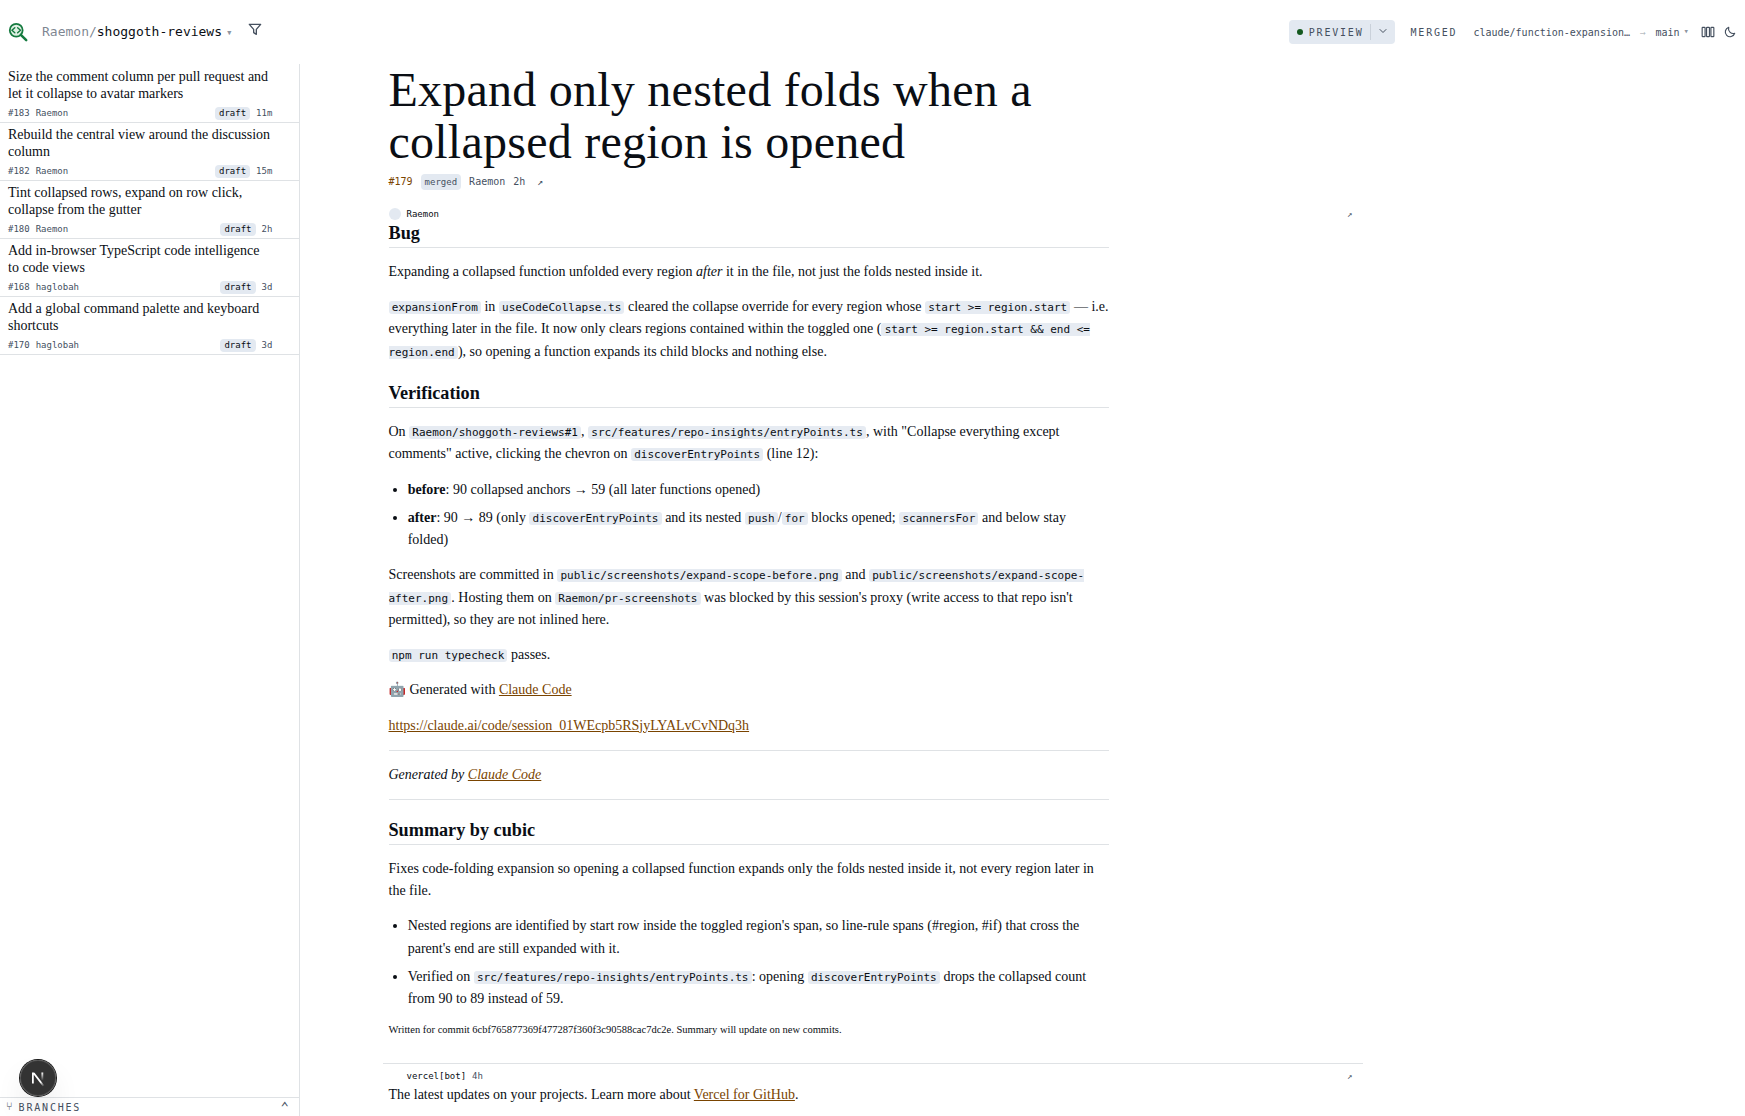
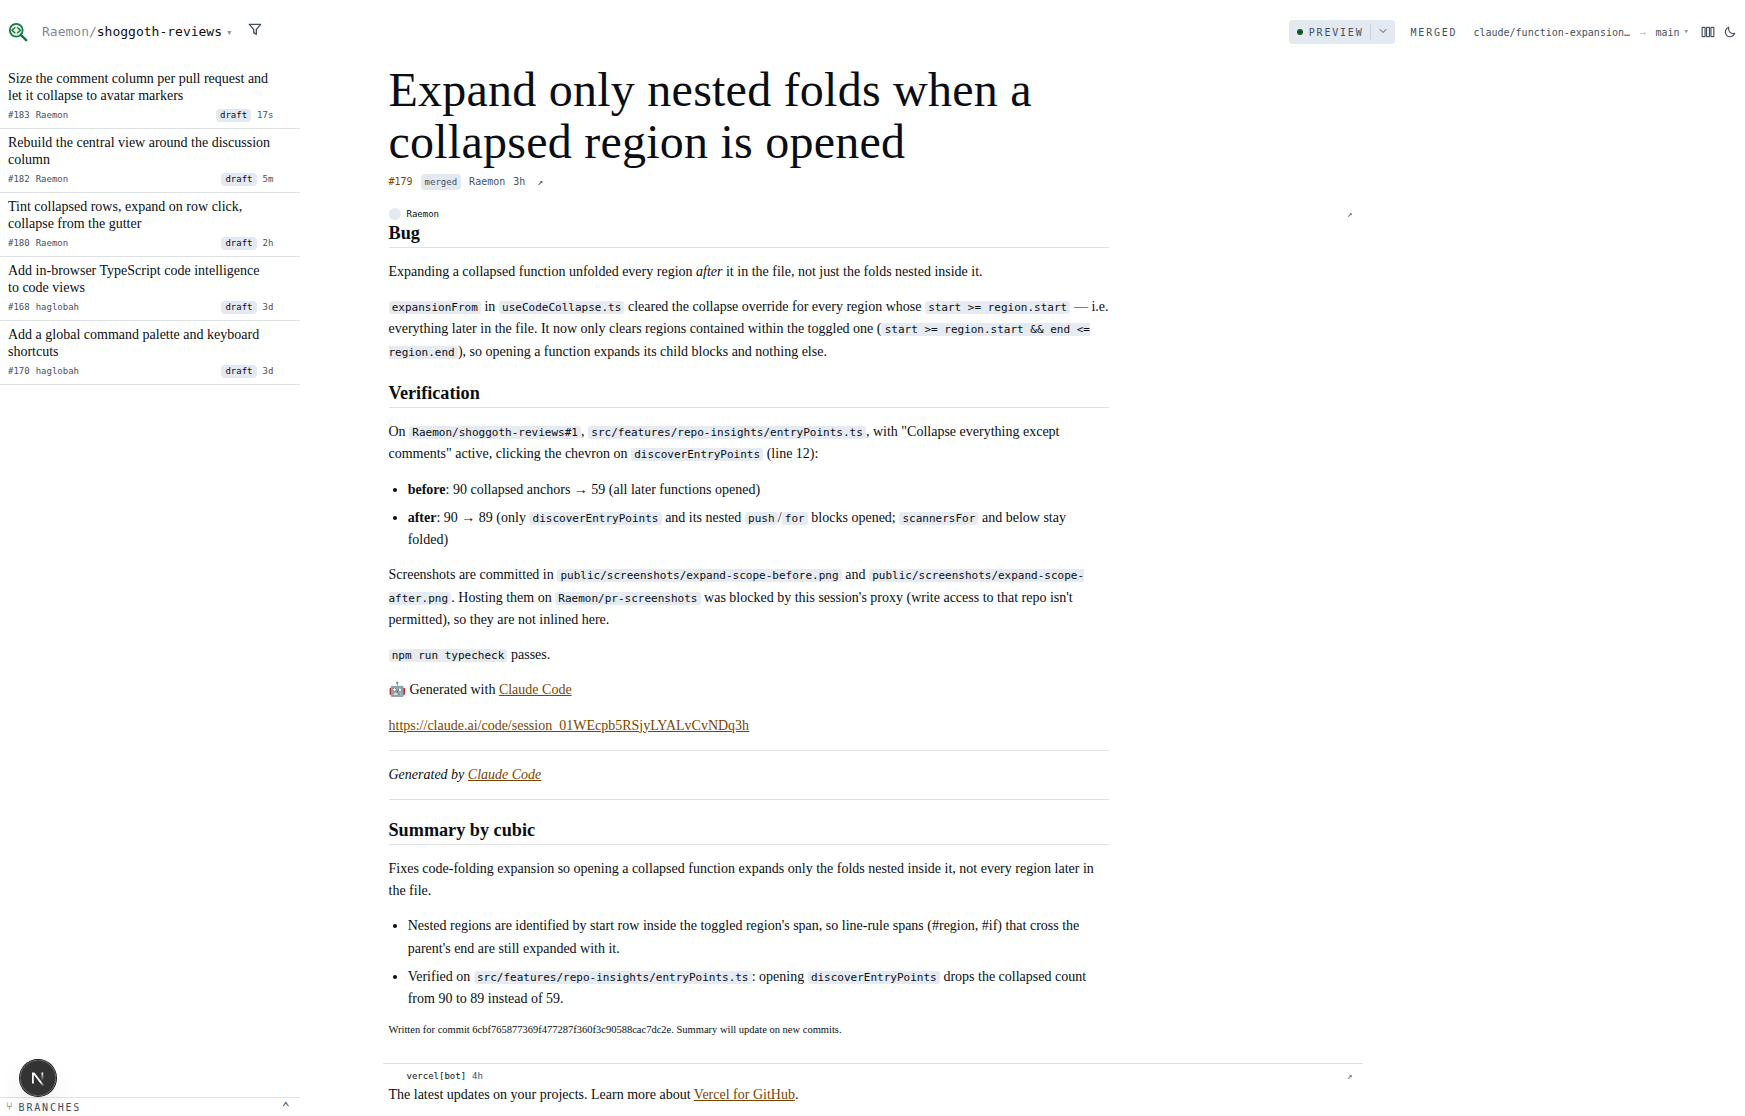
Let the pull list sit on the page without an edge, and give its rows room
The revealed list already ends where its rows' separators end, so the
right border was drawing a seam the content did not need. The rows pick
up a couple of pixels top and bottom in exchange.

Claude-Session: https://claude.ai/code/session_01K2rVBwtQ2cZrxikYzoaAXS

Changed region(s): [[0.0, 0.0609, 0.1547, 0.3656]]

diff --git a/src/features/pull-requests/PullListRow.tsx b/src/features/pull-requests/PullListRow.tsx
@@ -30,8 +30,8 @@ interface PullRowSummary {
 export const ROW_META = 'shrink-0 font-mono text-[9px] text-ink-dim';
 export const LIST_NOTE = 'px-2 py-1 text-[11px] leading-4';
 const NO_PULLS = 'No matching pull requests.';
-export const TITLE_LINE = 'break-words px-2 pb-0.5 pt-1 font-serif text-[14px] leading-[1.2]';
-export const META_LINE = 'flex items-center gap-1.5 px-2 py-0.5';
+export const TITLE_LINE = 'break-words px-2 pb-0.5 pt-1.5 font-serif text-[14px] leading-[1.2]';
+export const META_LINE = 'flex items-center gap-1.5 px-2 pb-1.5 pt-0.5';
 
 export function PullRowFields({ pull, target, repo, repoColumnCh }: { pull: PullRowSummary; target: PullTarget; repo?: string; repoColumnCh?: number }) {
   const isOwnAuthor = useIsOwnAuthor();

diff --git a/src/features/pull-requests/ResizableColumn.tsx b/src/features/pull-requests/ResizableColumn.tsx
@@ -234,7 +234,7 @@ function RevealColumn({ navId, size, onSize, footer, children }: ColumnProps) {
       onPointerDown={focus}
       onPointerLeave={clearHover}
       inert={!shown}
-      className={`absolute inset-y-0 left-0 z-40 flex w-[var(--col-w)] flex-col border-r border-panel-edge bg-panel transition-transform duration-150 ${
+      className={`absolute inset-y-0 left-0 z-40 flex w-[var(--col-w)] flex-col bg-panel transition-transform duration-150 ${
         shown ? 'translate-x-0' : '-translate-x-full'
       }`}
       style={{ '--col-w': `${size.width}px` } as CSSProperties}
